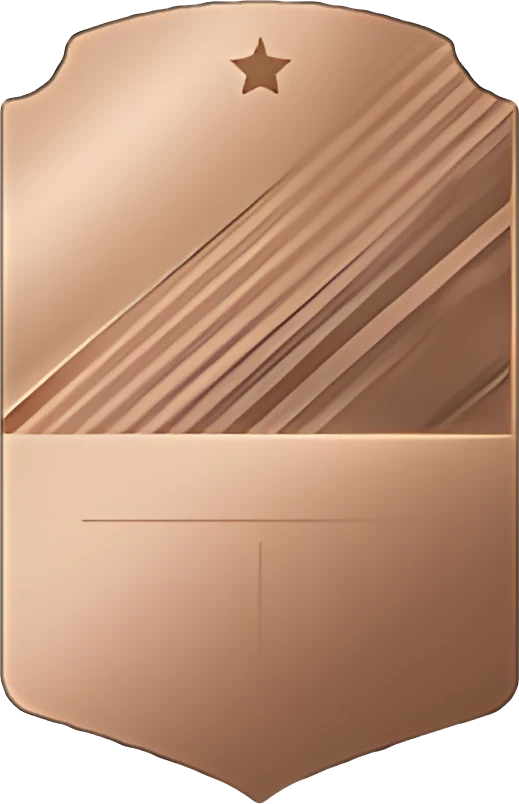
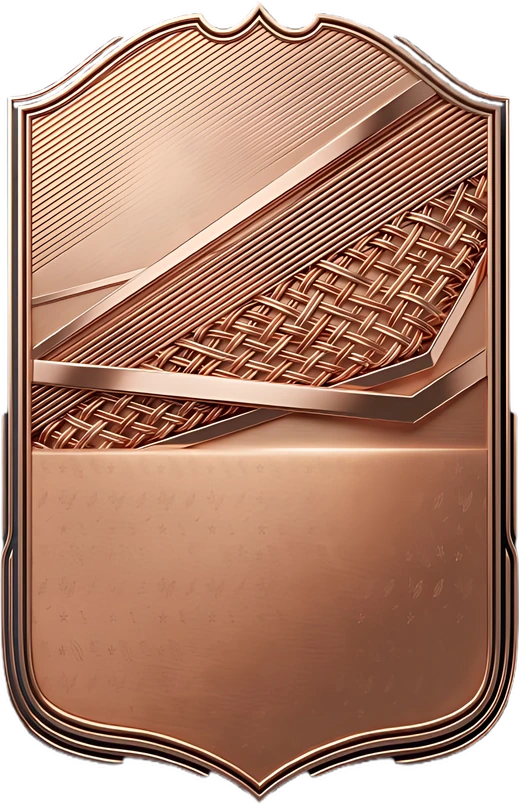
New HD bronze card design
Claude-Session: https://claude.ai/code/session_01FxBBQCteEDMJNKG3ou43Qd

diff --git a/soccer/index.html b/soccer/index.html
@@ -1392,7 +1392,7 @@ const BESTPOS=['GK','CB','LB','RB','LWB','RWB','CDM','CM','CAM','LM','RM','LW','
 /* card colours a player may pick (gold/silver/bronze/special stay earned) */
 const CARDCOL0={red:['Red','#FF8A8A','#C8202B','#F25C5C','#fff'],blue:['Blue','#8DB8FF','#1E4FC2','#5C8EF0','#fff'],green:['Green','#8EE6A6','#178A43','#4CC274','#fff'],purple:['Purple','#C9A2FF','#5B2BB5','#9566E8','#fff'],pink:['Pink','#FFB3DA','#D63A8C','#F27BB8','#fff'],teal:['Teal','#8FF0E4','#0E8C80','#3CC4B4','#fff'],orange:['Orange','#FFC48A','#E06A0E','#FA9A3C','#2a1300'],navy:['Navy','#7F96C9','#14224A','#3A4F86','#fff'],carbon:['Carbon','#9AA3AE','#2B3038','#5F6873','#fff'],ice:['Ice','#FFFFFF','#9FD6F2','#DDF2FC','#0f2a3a'],lime:['Lime','#E6FF8F','#7DB31A','#B6E04A','#1c2600'],maroon:['Maroon','#D98C9A','#6E1424','#A33B4E','#fff']};
 const CARDCOL={...CARDCOL0};
-const CARDV='4';
+const CARDV='5';
 /* Card designs: artwork by Raman's friend (cards/*.webp, HD). [name, top, bottom, mid, ink, label colour] */
 const CARDTHEMES={
   bronze:['Bronze','#CA9F81','#9D6F56','#C89B7F','#3A2410','#6B4426'],
@@ -1644,7 +1644,7 @@ async function syncRoster(){quietLog=true;try{const j=await (await fetch('seed.j
 let supa=null, supaUser=null, teamOwner=null, myName='', isAdmin=false;
 const ADMIN_EMAIL='rsramansingh96@gmail.com';
 /* App version gate: build.sh stamps APP_BUILD; the admin can require a minimum build. Older copies can't save (server rule) and get a reload screen. */
-const APP_BUILD='202610031628',BUILDN=/^\d{12}$/.test(APP_BUILD)?APP_BUILD:'0';
+const APP_BUILD='202610031710',BUILDN=/^\d{12}$/.test(APP_BUILD)?APP_BUILD:'0';
 let buildMin=null;
 async function checkBuild(){if(!supa||BUILDN==='0')return;try{const r=await supa.rpc('atb_min_build');buildMin=r.data;if(r.data&&+r.data>+BUILDN)showUpdate();else if(isAdmin&&view==='managers'&&!PM)render()}catch(e){}}
 function showUpdate(){if(document.getElementById('upd'))return;const d=document.createElement('div');d.id='upd';d.className='upd';

diff --git a/soccer/app.html b/soccer/app.html
@@ -1379,7 +1379,7 @@ const BESTPOS=['GK','CB','LB','RB','LWB','RWB','CDM','CM','CAM','LM','RM','LW','
 /* card colours a player may pick (gold/silver/bronze/special stay earned) */
 const CARDCOL0={red:['Red','#FF8A8A','#C8202B','#F25C5C','#fff'],blue:['Blue','#8DB8FF','#1E4FC2','#5C8EF0','#fff'],green:['Green','#8EE6A6','#178A43','#4CC274','#fff'],purple:['Purple','#C9A2FF','#5B2BB5','#9566E8','#fff'],pink:['Pink','#FFB3DA','#D63A8C','#F27BB8','#fff'],teal:['Teal','#8FF0E4','#0E8C80','#3CC4B4','#fff'],orange:['Orange','#FFC48A','#E06A0E','#FA9A3C','#2a1300'],navy:['Navy','#7F96C9','#14224A','#3A4F86','#fff'],carbon:['Carbon','#9AA3AE','#2B3038','#5F6873','#fff'],ice:['Ice','#FFFFFF','#9FD6F2','#DDF2FC','#0f2a3a'],lime:['Lime','#E6FF8F','#7DB31A','#B6E04A','#1c2600'],maroon:['Maroon','#D98C9A','#6E1424','#A33B4E','#fff']};
 const CARDCOL={...CARDCOL0};
-const CARDV='4';
+const CARDV='5';
 /* Card designs: artwork by Raman's friend (cards/*.webp, HD). [name, top, bottom, mid, ink, label colour] */
 const CARDTHEMES={
   bronze:['Bronze','#CA9F81','#9D6F56','#C89B7F','#3A2410','#6B4426'],
